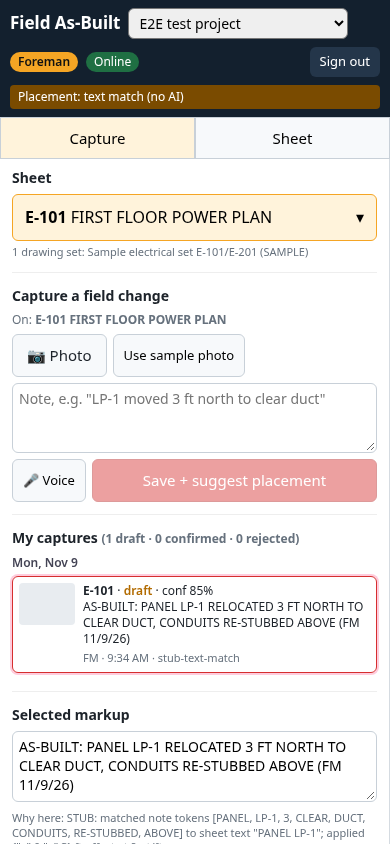
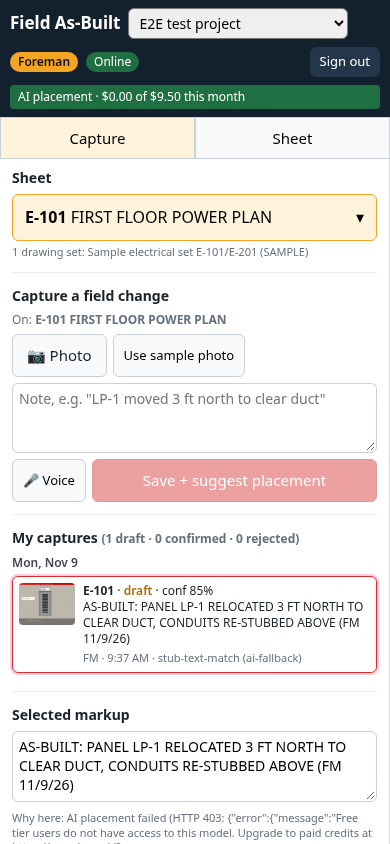
Docs: INFRA queued costs, auth, spend guard; live E2E outputs

diff --git a/docs/INFRA.md b/docs/INFRA.md
@@ -1,24 +1,35 @@
 # Field As-Built — provisioned infra
 
-_Last updated 9 Nov 2026, 9:16 AM EST. Everything is $0/mo. Secrets are not in this file or the repo; they're in Vercel (sensitive env vars) and in `/workspace/field-as-built/.env.local` on the box (gitignored)._
+_Last updated 9 Nov 2026, 9:45 AM EST. Running cost: $0/mo. Model spend is approved up to $10/mo, but $0.00 has been spent so far. Secrets are not in this file or the repo. They live in Vercel (sensitive env vars) and in `/workspace/field-as-built/app/data/secrets/` and `/workspace/field-as-built/.env.local` on the box (both gitignored)._
 
 | Resource | ID / location | Notes |
 |---|---|---|
-| **Live app** | https://field-as-built.vercel.app | Production alias is public (no login). Team alias `field-as-built-gc-desk-ai.vercel.app` and per-deployment URLs redirect to Vercel login (team members only) |
-| Vercel project `field-as-built` | `prj_WexrryY5Qa2IUWY2LbXEO35NfywR`, team `gc-desk-ai` (`team_vwGVMFO5MbAhq0CqGTy98PjC`, Hobby) | Separate from GC Desk AI (`prj_EjWzKVglwNOPYxvmSHQlmma8R14I`, untouched). Deployed by file upload (no Git link yet). Vercel Authentication: `all_except_custom_domains` (project default) |
-| Vercel env vars (field-as-built only; prod + preview) | `SUPABASE_URL`, `SUPABASE_PUBLISHABLE_KEY`, `FAB_DEMO_EMAIL`, `FAB_DEMO_PASSWORD` (sensitive), `FAB_DEMO_ORG_ID`, `FAB_DEMO_PROJECT_ID`, `FAB_PLACEMENT=stub`, `STRIPE_WEBHOOK_SECRET` (sensitive) | **No** `XAI_API_KEY` / AI Gateway key; model spend on hold |
-| Supabase project `field-as-built` | ref `fvopgrpadcwzucyrzbuk`, org `fbnzgluxdjcfrklwgnxs` (Free), us-east-1 | API https://fvopgrpadcwzucyrzbuk.supabase.co. Migrations in `supabase/migrations/`. RLS on all 10 tables; helpers in non-exposed `private` schema; advisors clean |
-| Supabase Storage | private buckets `drawings`, `photos`, `audio`, `exports` | Object paths `<org_id>/<project_id>/...`; member-only policies |
-| Demo tenant (seeded) | org `0f1e0000-0000-4000-8000-00000000a001` "Field As-Built Demo", project `…b001` "Sample Tenant Fit-Out (demo)", auth user `demo@field-as-built.app` (`…c001`, admin) | No end-user auth yet: the server signs in as this demo user, so RLS is enforced. The password is server-only. The service-role key isn't used (not available through the connector) |
-| Stripe (TEST mode, `acct_1UPneEI4oNP3GdLA`) | `prod_Vb5O09sTUMKmC7` "Field As-Built – Project (monthly)", `price_1UZtDNI4oNP3GdLAsm20cFfs` ($450/mo placeholder) | |
-| | `prod_Vb5Onqs8dOG5AN` "Field As-Built – Pilot", `price_1UZtDPI4oNP3GdLAdL9PaAC5` ($1,000 one-time placeholder) | |
-| Stripe webhook | `we_1UZtLgI4oNP3GdLA6pFUcbV9` → https://field-as-built.vercel.app/api/stripe/webhook | Events: checkout.session.completed, customer.subscription.created/updated/deleted, invoice.paid, invoice.payment_failed. The handler verifies the signature and only acknowledges for now |
-| Origin repo | https://cursor.com/codebase/matthew-fronczak/field-as-built (`r_01m70a649het3rexz4ffksc7rg`, private) | Created empty. Push pending: the box has no Origin git credentials (see report) |
-| GitHub | — | Not used (GitHub not connected) |
+| **Live app** | https://field-as-built.vercel.app | **Login required.** Supabase Auth email/password with invite-only accounts and no public signup. Every `/api` route except `public-config` and the signed Stripe webhook returns 401 without a session. Every response sends `noindex` (meta tag, `X-Robots-Tag` header, and `robots.txt` Disallow). The team alias and per-deployment URLs also sit behind Vercel login |
+| Vercel project `field-as-built` | `prj_WexrryY5Qa2IUWY2LbXEO35NfywR`, team `gc-desk-ai` (`team_vwGVMFO5MbAhq0CqGTy98PjC`, Hobby) | Separate from GC Desk AI (`prj_EjWzKVglwNOPYxvmSHQlmma8R14I`, untouched). Deployed by file upload (no Git link). Latest prod deployment `dpl_8srSvvzN2JTimUvRtaNjQVDbdb7K` |
+| Vercel env vars (field-as-built only) | `SUPABASE_URL`, `SUPABASE_PUBLISHABLE_KEY`, `FAB_PLACEMENT=ai`, `STRIPE_WEBHOOK_SECRET` (sensitive). Leftover and unused: `FAB_DEMO_*` (the demo user is now banned) | AI goes through Vercel AI Gateway with the deployment's **OIDC token**. There's no AI Gateway API key and no `XAI_API_KEY` |
+| AI placement | model `spacexai/grok-4.20-non-reasoning` via `https://ai-gateway.vercel.sh/v1` | **Blocked right now:** the Gateway returns 403 "Free tier users do not have access to this model" until paid Gateway credits exist (see Queued costs). The app falls back to text-match placement automatically, and the failed calls are logged at $0 |
+| Spend guard | table `public.ai_usage`, function `public.ai_month_spend()` | Every model call logs tokens, the estimated cost (from token usage at Gateway list price: $1.25/M in, $0.20/M cached, $2.50/M out), the Gateway-reported cost, ok/error, and latency. Before each call the server sums month-to-date spend across all orgs. At **$9.50** or more, or if spend can't be read (fails closed), the capture falls back to stub placement with a note, and the header reads "AI paused". `max_tokens` is 400 per call |
+| Gateway-level budget | — | **Not set.** The Vercel connector has no AI Gateway budget or alert tools. Set it by hand: Vercel dashboard → gc-desk-ai → AI Gateway → budget $10/mo |
+| Supabase project `field-as-built` | ref `fvopgrpadcwzucyrzbuk`, org `fbnzgluxdjcfrklwgnxs` (Free), us-east-1 | Migrations in `supabase/migrations/`. RLS on all tables, with roles enforced in RLS: foreman = capture and edit own drafts; PE/admin = confirm/reject, add drawing sets, create projects, export. The API checks the same rules and returns 403 |
+| Invite-only auth | `private.invites` plus triggers on `auth.users` | A DB trigger rejects any signup whose email isn't invited ("Field As-Built is invite-only"). Invited users get their membership and profile automatically. To invite someone: `insert into private.invites(email, org_id, role) values (...)`, then create the user (dashboard "Invite user" or SQL) |
+| Accounts | org `0f1e0000-…a001` "Field As-Built Pilot" | `matfron13-v0nchn@mail.grokbot.com` (admin, Matthew), `e2e-pe@field-as-built.app` (pe), `e2e-foreman@field-as-built.app` (foreman). Passwords: `app/data/secrets/accounts.json` / `matthew_login.txt`. Old `demo@field-as-built.app` is banned and has no membership |
+| Supabase Storage | private buckets `drawings`, `photos`, `audio`, `exports` | Paths `<org_id>/<project_id>/{drawings,photos}/...`. Member-only policies. The server reads them as the signed-in user, never with a service key |
+| Stripe (TEST mode, `acct_1UPneEI4oNP3GdLA`) | `prod_Vb5O09sTUMKmC7` "Field As-Built – Project (monthly)", `price_1UZtDNI4oNP3GdLAsm20cFfs` ($450/mo placeholder); `prod_Vb5Onqs8dOG5AN` "Field As-Built – Pilot", `price_1UZtDPI4oNP3GdLAdL9PaAC5` ($1,000 one-time placeholder) | |
+| Stripe webhook | `we_1UZtLgI4oNP3GdLA6pFUcbV9` → https://field-as-built.vercel.app/api/stripe/webhook | Signature-verified and outside the login gate (Stripe can't log in). Unsigned posts get 400 |
+| Origin repo | https://cursor.com/codebase/matthew-fronczak/field-as-built (`r_01m70a649het3rexz4ffksc7rg`, private) | Still empty. The box has no Origin git credentials. Local commits are on `main` in `/workspace/field-as-built` |
+
+## Queued costs (not bought; each needs Matthew's OK)
+| Item | Est. cost | Why |
+|---|---|---|
+| Vercel AI Gateway paid credits (top-up) | Prepaid, e.g. $10. Spend stays under the $10/mo cap via the app guard | **Needed for AI placement to work at all.** The free tier blocks `grok-4.20-non-reasoning` (403). Once credits exist, nothing else changes: `FAB_PLACEMENT=ai` and OIDC are already live |
+| Supabase Pro (org `fbnzgluxdjcfrklwgnxs`) | $25/mo | Unlocks leaked-password (HaveIBeenPwned) protection, which is Pro-only per Supabase docs and still flagged by the advisor. Also stops the 7-day idle pause, and gives session time-boxing |
+| Vercel Pro | $20/user/mo | Not needed yet. Would allow larger function bodies and a team password-protection option |
+| Custom domain | ~$10–15/yr | Not needed yet |
 
 ## Known limits
-- Supabase Free pauses after 7 days idle; the org is at its 2-active-project Free limit.
-- Vercel Functions take request bodies up to 4.5 MB. The UI shrinks photos client-side and rejects drawing PDFs over 4.4 MB. The MVP should upload large sets straight to Storage with signed URLs.
-- The public URL plus one shared demo user means anyone with the link can load or reset the demo data. That's fine for sample data only; real projects need auth first.
+- Supabase Free pauses after 7 days idle. The org is at its 2-active-project Free limit.
+- Vercel Functions take request bodies up to 4.5 MB. Photos are shrunk on the client, and drawing PDFs over 4.4 MB are rejected (large sets should later upload straight to Storage with signed URLs).
+- Public signup can't be switched off from our tools; the DB trigger is what blocks it. To turn it off at the source too: Supabase dashboard → Auth → Providers → Email → disable "Allow new users to sign up" (free).
+- The static JS/CSS bundle is publicly downloadable (it has no data in it). All data and files sit behind login.
 
 Do not touch Supabase project `deofmqmqerqxbhatfznh` or Vercel project `prj_EjWzKVglwNOPYxvmSHQlmma8R14I` (GC Desk AI).

diff --git a/README.md b/README.md
@@ -27,3 +27,11 @@ python3 verify_e2e.py                         # drives the UI headlessly, export
 python3 check_annotations.py ../../out/exported-as-built.pdf
 ```
 Screenshots land in `screenshots/`, the exported PDF in `out/`.
+
+
+## Live site (as of 9 Nov 2026)
+https://field-as-built.vercel.app requires a login. Accounts are invite-only (see docs/INFRA.md). Matthew's login is in `app/data/secrets/matthew_login.txt` on the box (not in git).
+
+What it does: you sign in, then pick a project (PE/admin can create one with "+ Project") and a sheet (the phone picker has search and recent sheets). A foreman saves a photo and note as a capture: it goes to the on-phone IndexedDB outbox first and syncs right away, or later if there's no signal, and gets a draft markup (AI placement via AI Gateway when credits exist, otherwise text match). A PE drags and confirms or rejects the drafts, then exports a PDF (full set or one sheet) with editable Bluebeam clouds and callouts plus a markup-log page grouped by capture date, or a markup log CSV.
+
+E2E test: `python3 app/scripts/verify_e2e.py https://field-as-built.vercel.app` (31 checks, at most 1 model call per run). Local: `cd app && npm run build && node server/index.js` with `.env.local` loaded. It uses the same Supabase project with `FAB_PLACEMENT=stub`.
